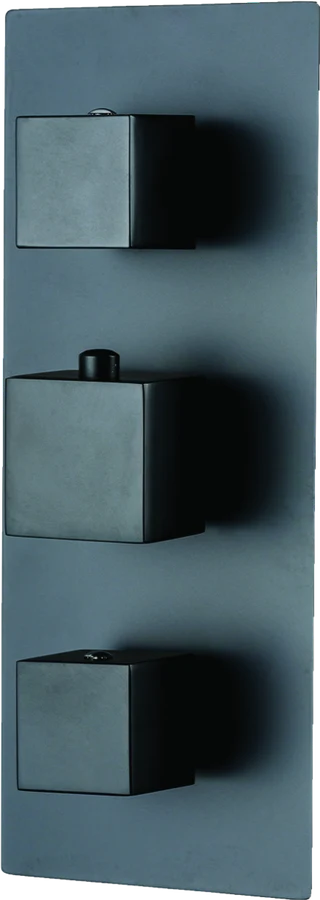
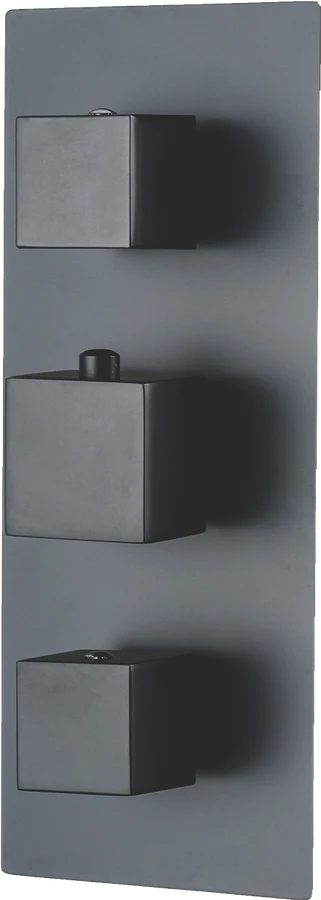
Rectangle diverters: use the face-on renders that were in the folder all along
These were the last fittings still reading as stuck on the wall at an angle, and
three attempts at correcting them by rotation had failed. Measuring the plate
showed why: the outline is already square — edges leaning 0.4 and 1.4 degrees,
vanishing points at infinity, no measurable perspective. What is angled is the
KNOB and the LEVER, photographed from the side so they project out to the left.
That is 3D information baked into the photograph. No roll and no warp removes
it, which is why nothing worked.

The folder had the answer. Alongside the three-quarter studio shots it carries a
second series — D5017-1..5, D5010-1..3, D5009-1..3, D5004-1..3 — and those are
shot dead-on: square edges, lever hanging straight down, controls head-on. Which
is what a diverter looks like when it is on your wall.

Getting them out took two things:
  - macOS reads these PSDs correctly where PIL does not. PIL composites the
    layers into a red/cyan mess; sips returns the flattened image the file
    actually holds.
  - D5017 ships as a SET composite — plate, handset, bracket, hose — so the
    plate is lifted out by connected components. The rest of the set labels as
    one wide blob because the hose joins it all up, so the plate is picked as
    the narrow upright one near the top, not the biggest.

Each variant's finish comes from sampling its own pixels, cross-checked against
the finish codes printed in the 2026 catalogue (D5004, D5009 and D5010 are sold
[…]

diff --git a/assets/catalog.js b/assets/catalog.js
@@ -99,7 +99,7 @@ const RAW_PRODUCTS = [
   { code: "ST-C1011", cat: "rain-shower", name: "Cascada Maxima Panel",        finishes: ["gunGrey","brushedRoseGold"], variant: "waterfall blades + LED + centre jet" },
 
   // ---- Concealed Diverter (single-lever) ----
-  { code: "ST-D5017", cat: "diverter",    name: "Regale Concealed Diverter",   finishes: ["brushedRoseGold"],                                          badge: "Signature" },
+  { code: "ST-D5017", cat: "diverter",    name: "Regale Concealed Diverter",   finishes: ["chrome","gunGrey","champagne","brushedRoseGold","matteBlack"],                                          badge: "Signature" },
 
   // ---- Thermostatic Diverter panels (D-series) ----
   { code: "ST-D5018", cat: "thermostatic", name: "Regale Grande Thermostatic Panel", finishes: ["chrome","gunGrey","champagne","roseGold","brushedRoseGold","matteBlack"], badge: "Bestseller" },
@@ -205,7 +205,7 @@ const RAW_PRODUCTS = [
   { code: "ST-D5003", cat: "diverter", name: "Regale 3-Way Concealed Diverter", finishes: ["chrome"], variant: "square plate · 3 buttons" },
   { code: "ST-D5004", cat: "diverter", name: "Regale 5-Button Diverter Plate", finishes: ["chrome","roseGold","matteBlack"], variant: "tall plate · dial + 5 buttons" },
   { code: "ST-D5009", cat: "diverter", name: "Regale 2-Way Concealed Thermostat", finishes: ["chrome","roseGold","matteBlack"], variant: "tall plate · 2 outlets" },
-  { code: "ST-D5010", cat: "diverter", name: "Regale 3-Way Concealed Thermostat", finishes: ["chrome","gold","matteBlack"], variant: "tall plate · 3 outlets" },
+  { code: "ST-D5010", cat: "diverter", name: "Regale 3-Way Concealed Thermostat", finishes: ["chrome","roseGold","matteBlack"], variant: "tall plate · 3 outlets" },
   { code: "ST-BJ21F", cat: "body-jet", name: "Aqua Square Concealed Body Jet", finishes: ["brushedRoseGold","champagne","chrome","gunGrey","matteBlack","roseGold"], variant: "square escutcheon · single jet" },
   { code: "ST-2FBJ", cat: "body-jet", name: "Aqua Micro-Jet Body Spray", finishes: ["chrome","matteBlack","roseGold"], variant: "square plate · multi micro-jet" },
 ];
